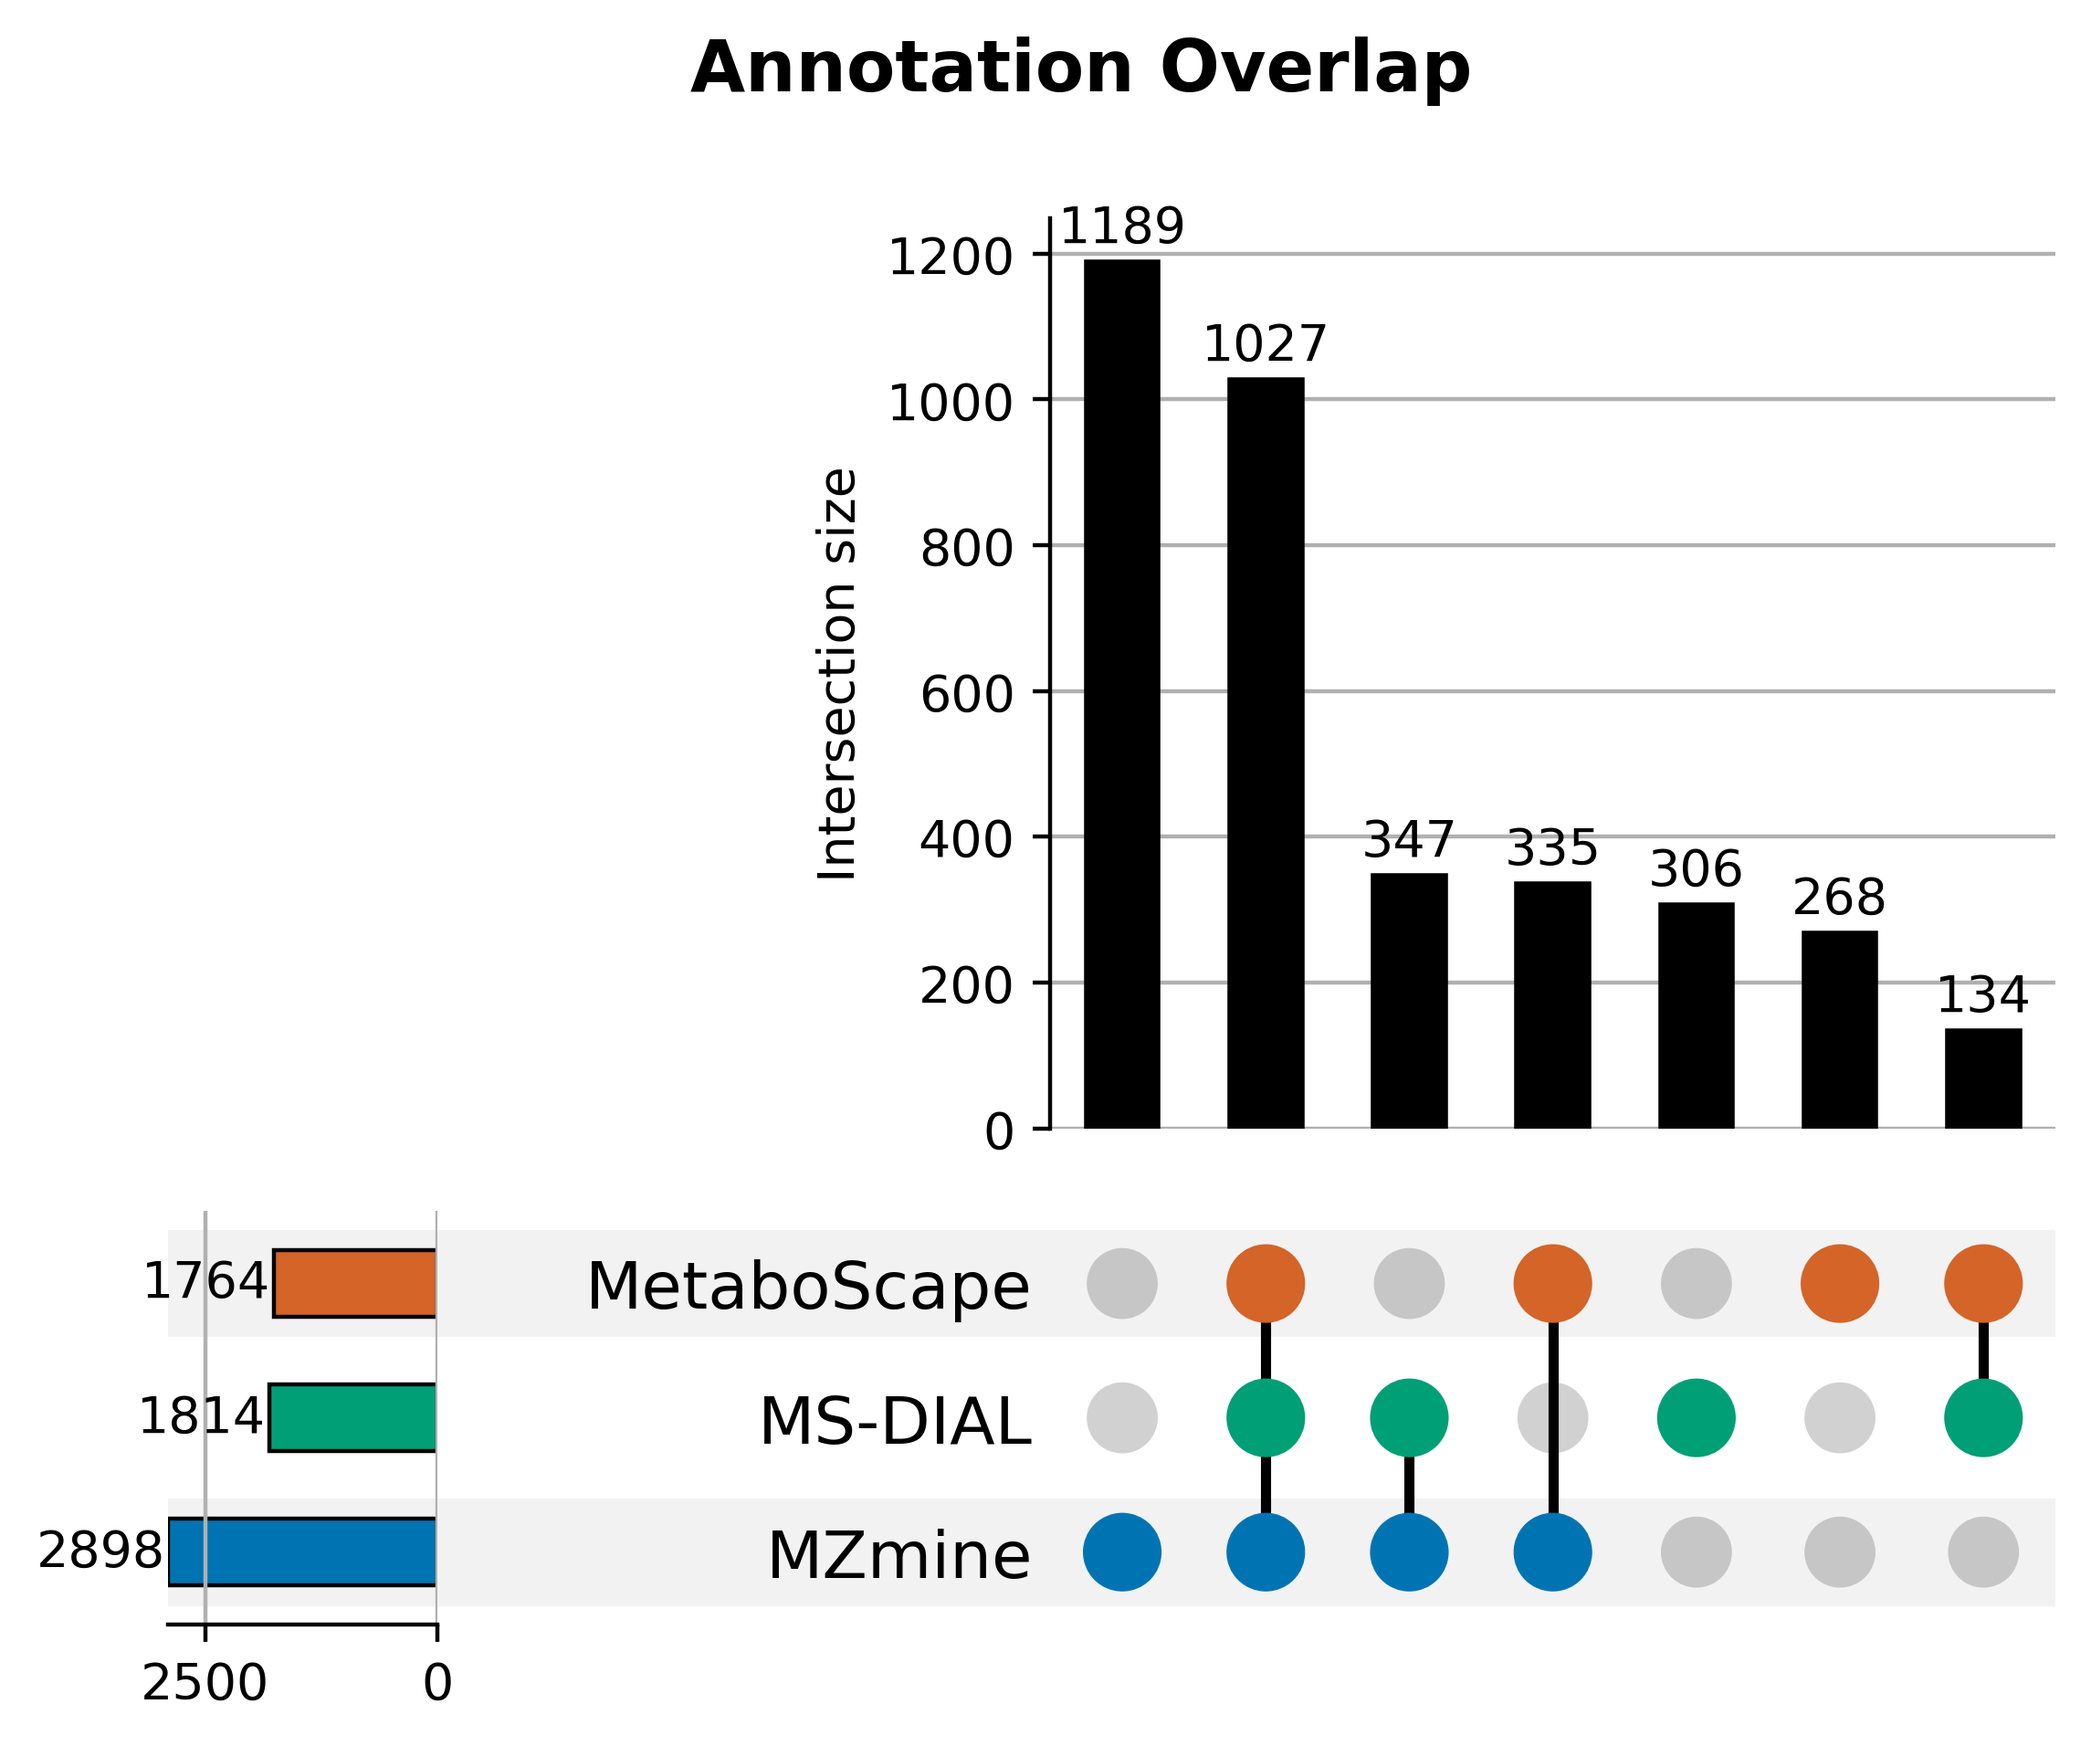
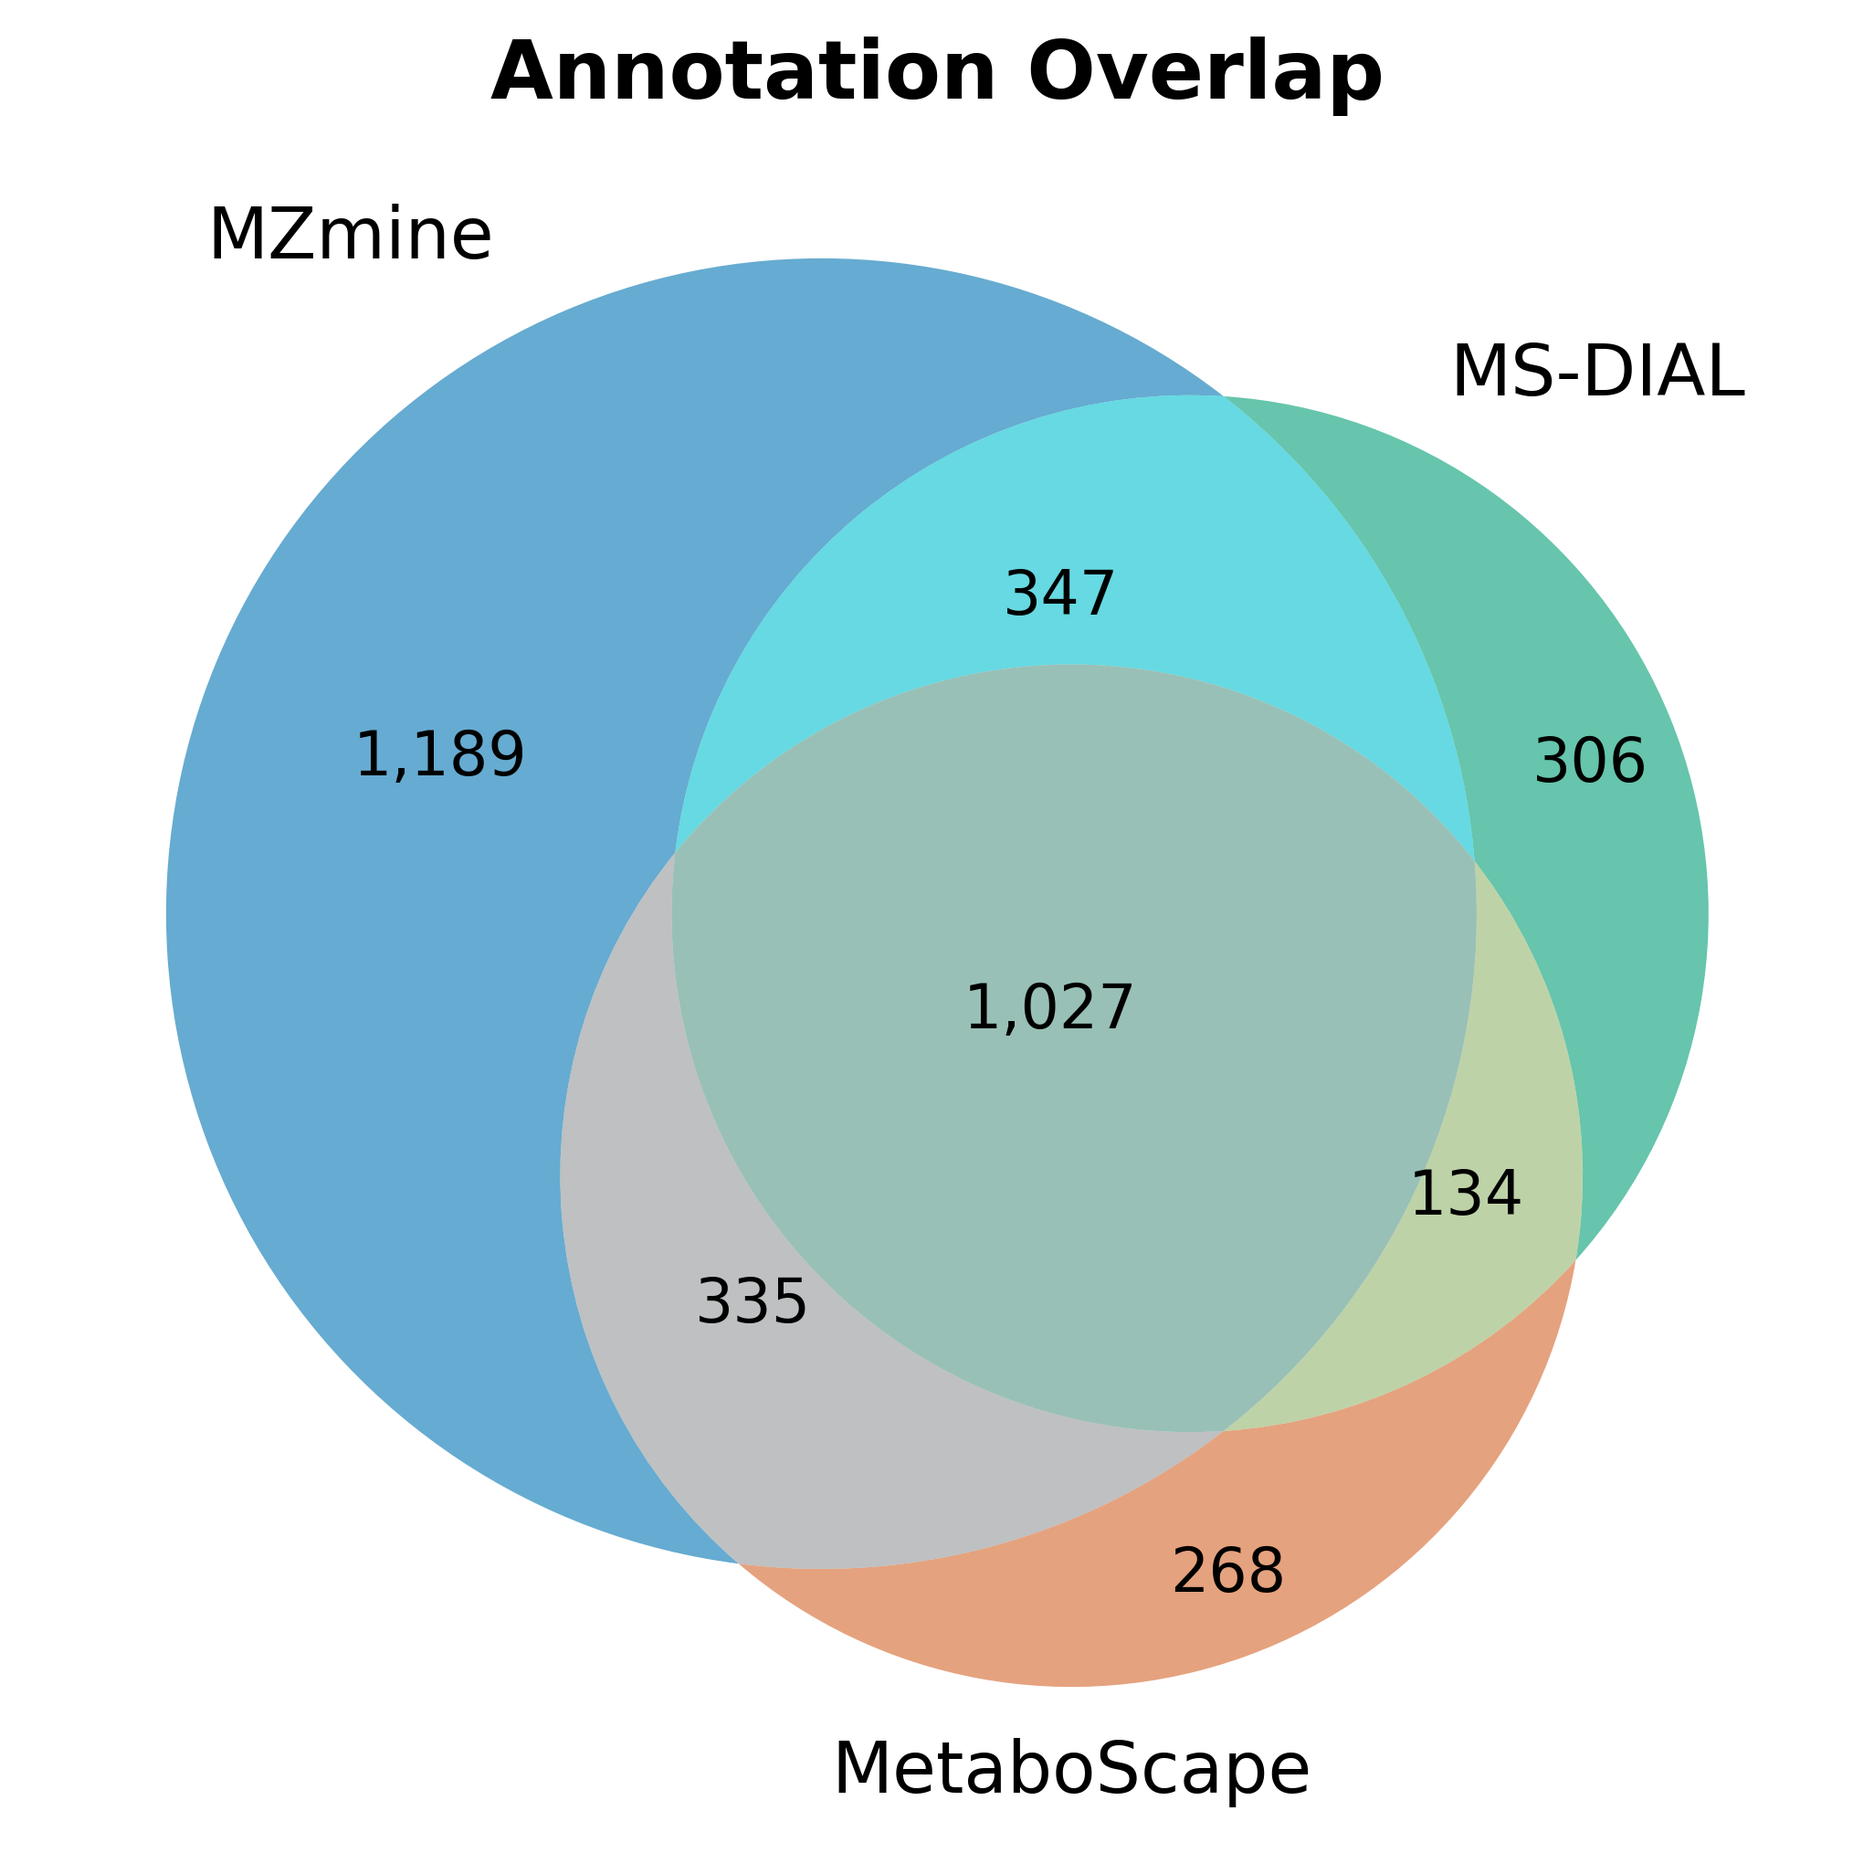
update figure 2b

diff --git a/benchmarking/plots.py b/benchmarking/plots.py
@@ -17,7 +17,7 @@ import numpy as np
 import seaborn as sns
 import matplotlib.pyplot as plt
 from matplotlib.colors import to_rgba
-from matplotlib_venn import venn3
+from matplotlib_venn import venn2, venn3
 from upsetplot import from_contents, UpSet
 
 import plotly.graph_objects as go
@@ -730,6 +730,76 @@ def plot_upset_combined(
 
     plt.suptitle(title, y=0.98, fontsize=14, fontweight="bold")
     plt.tight_layout()
+
+    if save_path:
+        plt.savefig(save_path, dpi=400, bbox_inches="tight")
+
+
+def plot_venn_combined(
+    combined_sets: dict,
+    title: str,
+    save_path: str = None,
+    figsize: tuple = (8, 8),
+):
+    """Plot combined annotation overlap as a Venn diagram.
+
+    Uses the same ``combined_sets`` input shape as ``plot_upset_combined``.
+    Supports exactly 2 or 3 tools.
+
+    Parameters
+    ----------
+    combined_sets : dict
+        Dictionary with tool keys and sets of InChIKeys as values.
+    title : str
+        Title for the figure.
+    save_path : str, optional
+        Path where the figure should be saved.
+    figsize : tuple
+        Figure size (width, height).
+    """
+    if not combined_sets:
+        raise ValueError("combined_sets cannot be empty")
+
+    n_tools = len(combined_sets)
+    if n_tools not in (2, 3):
+        raise ValueError(
+            f"Venn diagram requires exactly 2 or 3 tools, got {n_tools}. "
+            "Use plot_upset_combined for higher-order overlaps."
+        )
+
+    tool_keys = list(combined_sets.keys())
+    tool_labels = [TOOL_NAMES.get(tool, tool) for tool in tool_keys]
+    tool_colors = [TOOL_COLORS.get(tool, "#CCCCCC") for tool in tool_keys]
+    tool_sets = [set(combined_sets[tool]) for tool in tool_keys]
+
+    plt.figure(figsize=figsize)
+
+    if n_tools == 2:
+        venn = venn2(
+            subsets=tool_sets,
+            set_labels=tool_labels,
+            subset_label_formatter=lambda x: f"{int(x):,}",
+            set_colors=tool_colors,
+            alpha=0.6,
+        )
+    else:
+        venn = venn3(
+            subsets=tool_sets,
+            set_labels=tool_labels,
+            subset_label_formatter=lambda x: f"{int(x):,}",
+            set_colors=tool_colors,
+            alpha=0.6,
+        )
+
+    for label in venn.set_labels:
+        if label:
+            label.set_fontsize(14)
+
+    for label in venn.subset_labels:
+        if label:
+            label.set_fontsize(12)
+
+    plt.title(title, fontsize=16, fontweight="bold")
 
     if save_path:
         plt.savefig(save_path, dpi=400, bbox_inches="tight")
